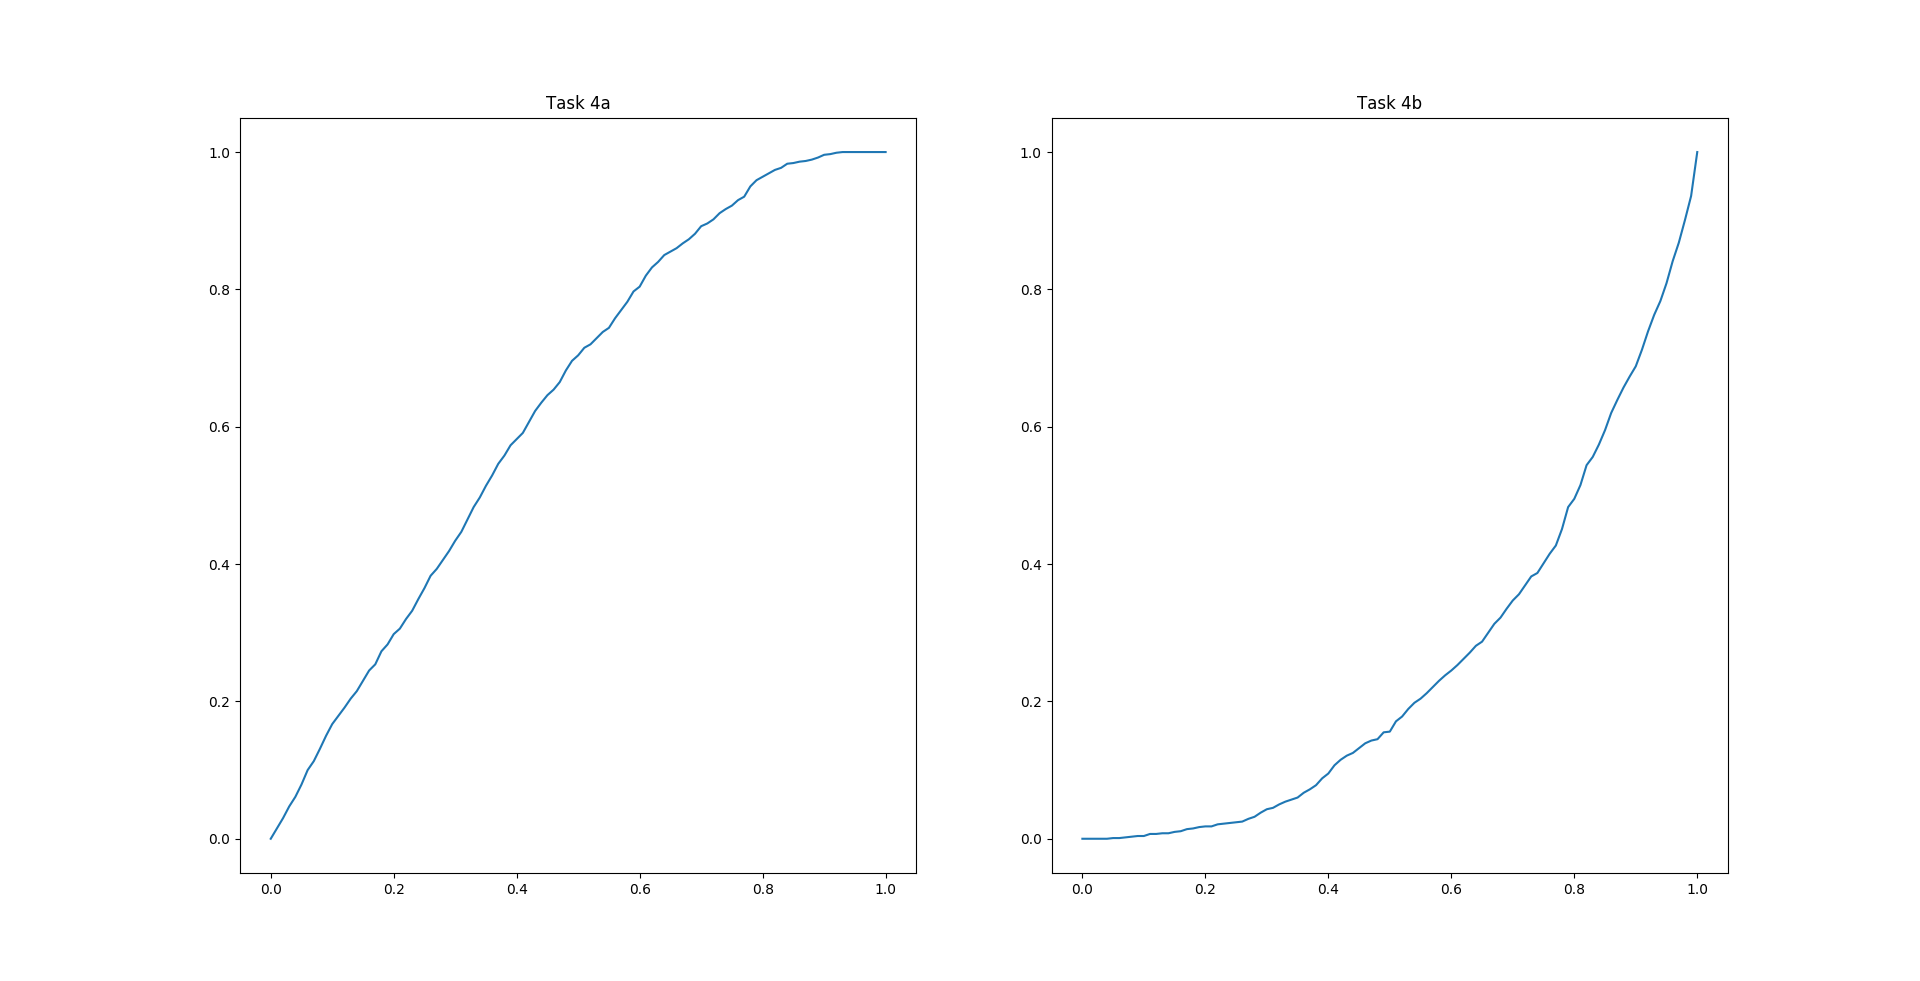
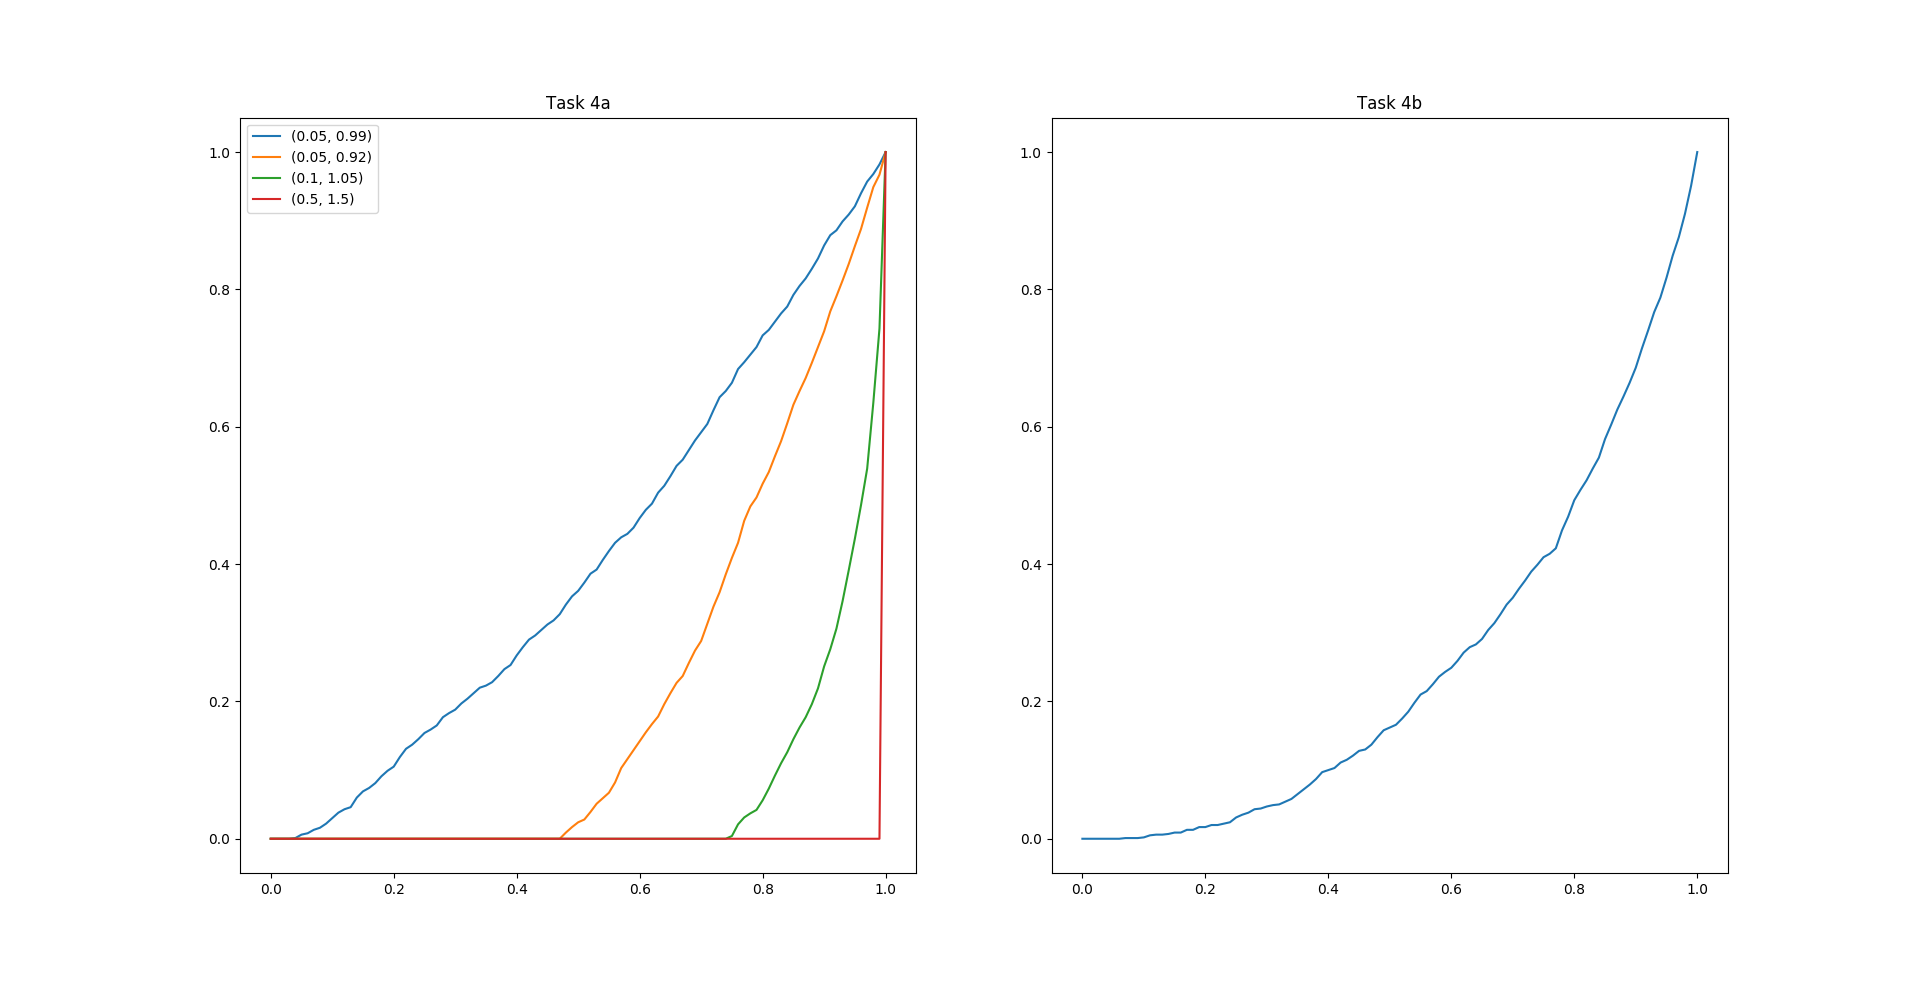
updated hw 6

diff --git a/6.py b/6.py
@@ -6,24 +6,29 @@ from scipy.stats import kstest, norm
 
 SAMPLE_SIZE = 100
 N = 1000
-EPS = 0.0522
+
+def type2_errors(low, high):
+    xs = np.arange(0., 1.01, step=.01)
+    p_values_freq = np.zeros(xs.shape)
+    for _ in range(N):
+        sample = np.random.uniform(low=low, high=high, size=SAMPLE_SIZE)
+        ks_test = kstest(sample, 'uniform')
+        for i, x in enumerate(xs):
+            if 1 - ks_test.pvalue <= x:
+                p_values_freq[i] += 1
+    p_values_freq /= N
+    return xs, p_values_freq
+    
 
 if __name__ == '__main__':
     plt.figure(1)
     plt.subplot(121)
 
     # task 4a
-    # alternative: distribution is uniform from [EPS, 1-EPS]
-    xs = np.arange(0., 1.01, step=.01)
-    p_values_freq = np.zeros(xs.shape)
-    for _ in range(N):
-        sample = np.random.uniform(low=EPS, high=1-EPS, size=SAMPLE_SIZE)
-        ks_test = kstest(sample, 'uniform')
-        for i, x in enumerate(xs):
-            if ks_test.pvalue <= x:
-                p_values_freq[i] += 1
-    p_values_freq /= N
-    plt.plot(xs, p_values_freq)
+    for low, high in [(0.05, 0.99), (0.05, 0.92), (0.1, 1.05), (0.5, 1.5)]:
+        xs, p_values_freq = type2_errors(low, high)
+        plt.plot(xs, p_values_freq, label=str((low, high)))
+    plt.legend()
     plt.title('Task 4a')
 
     plt.subplot(122)
